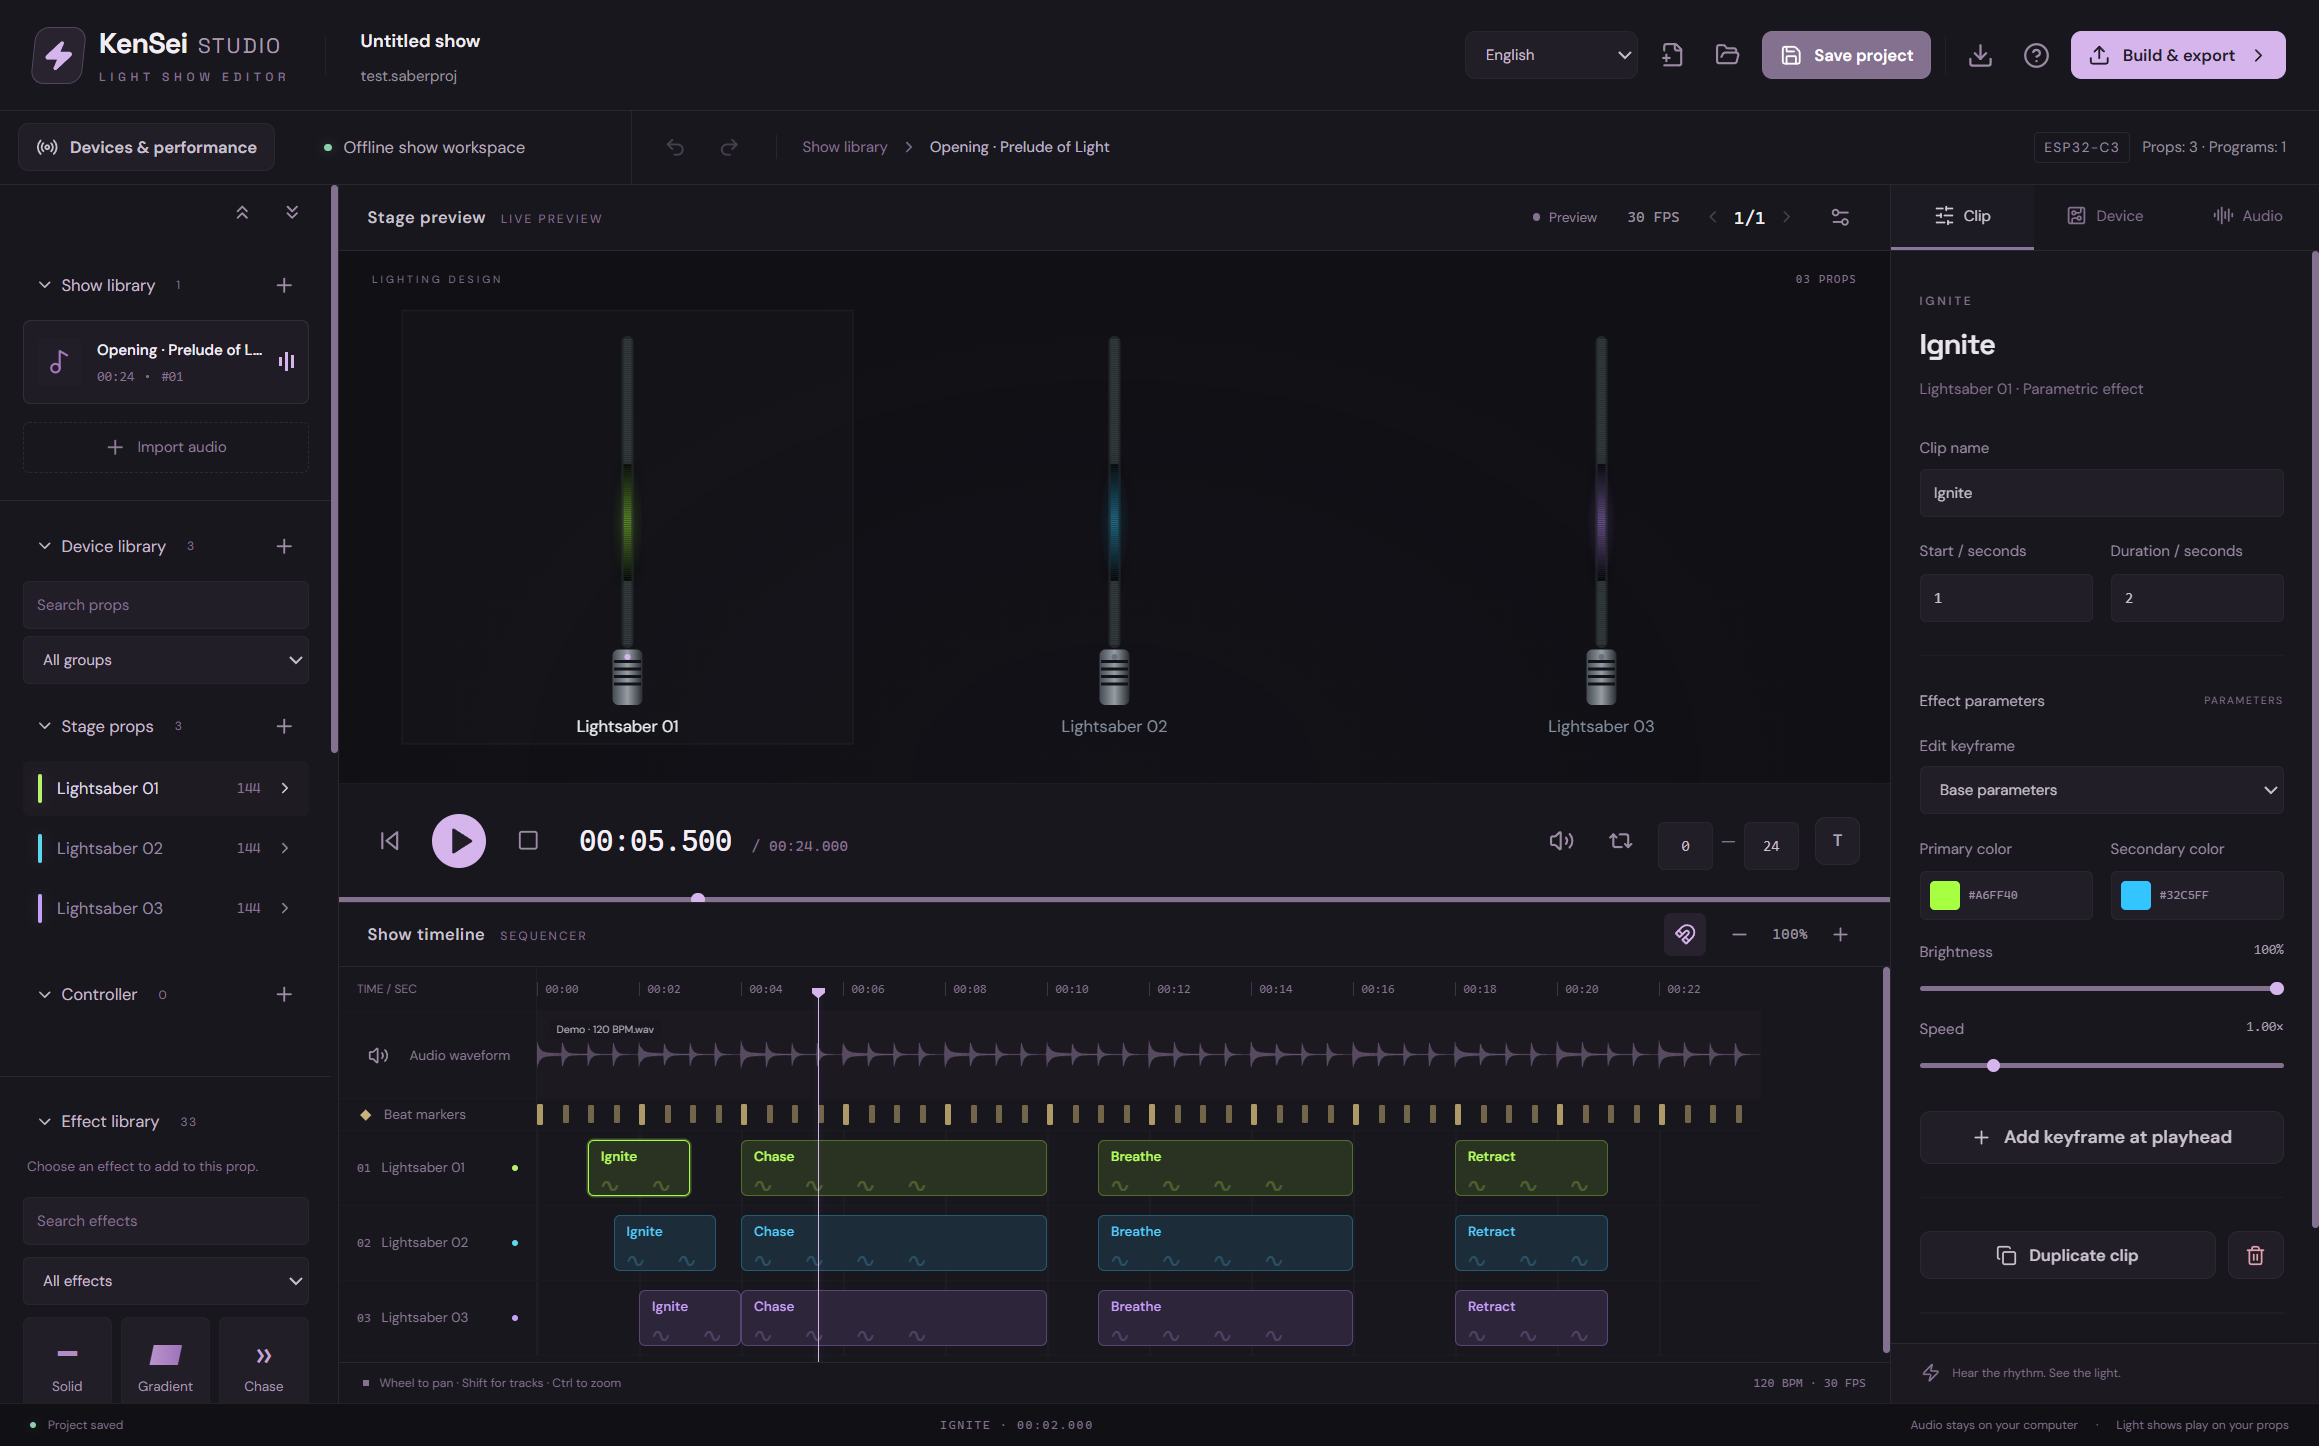
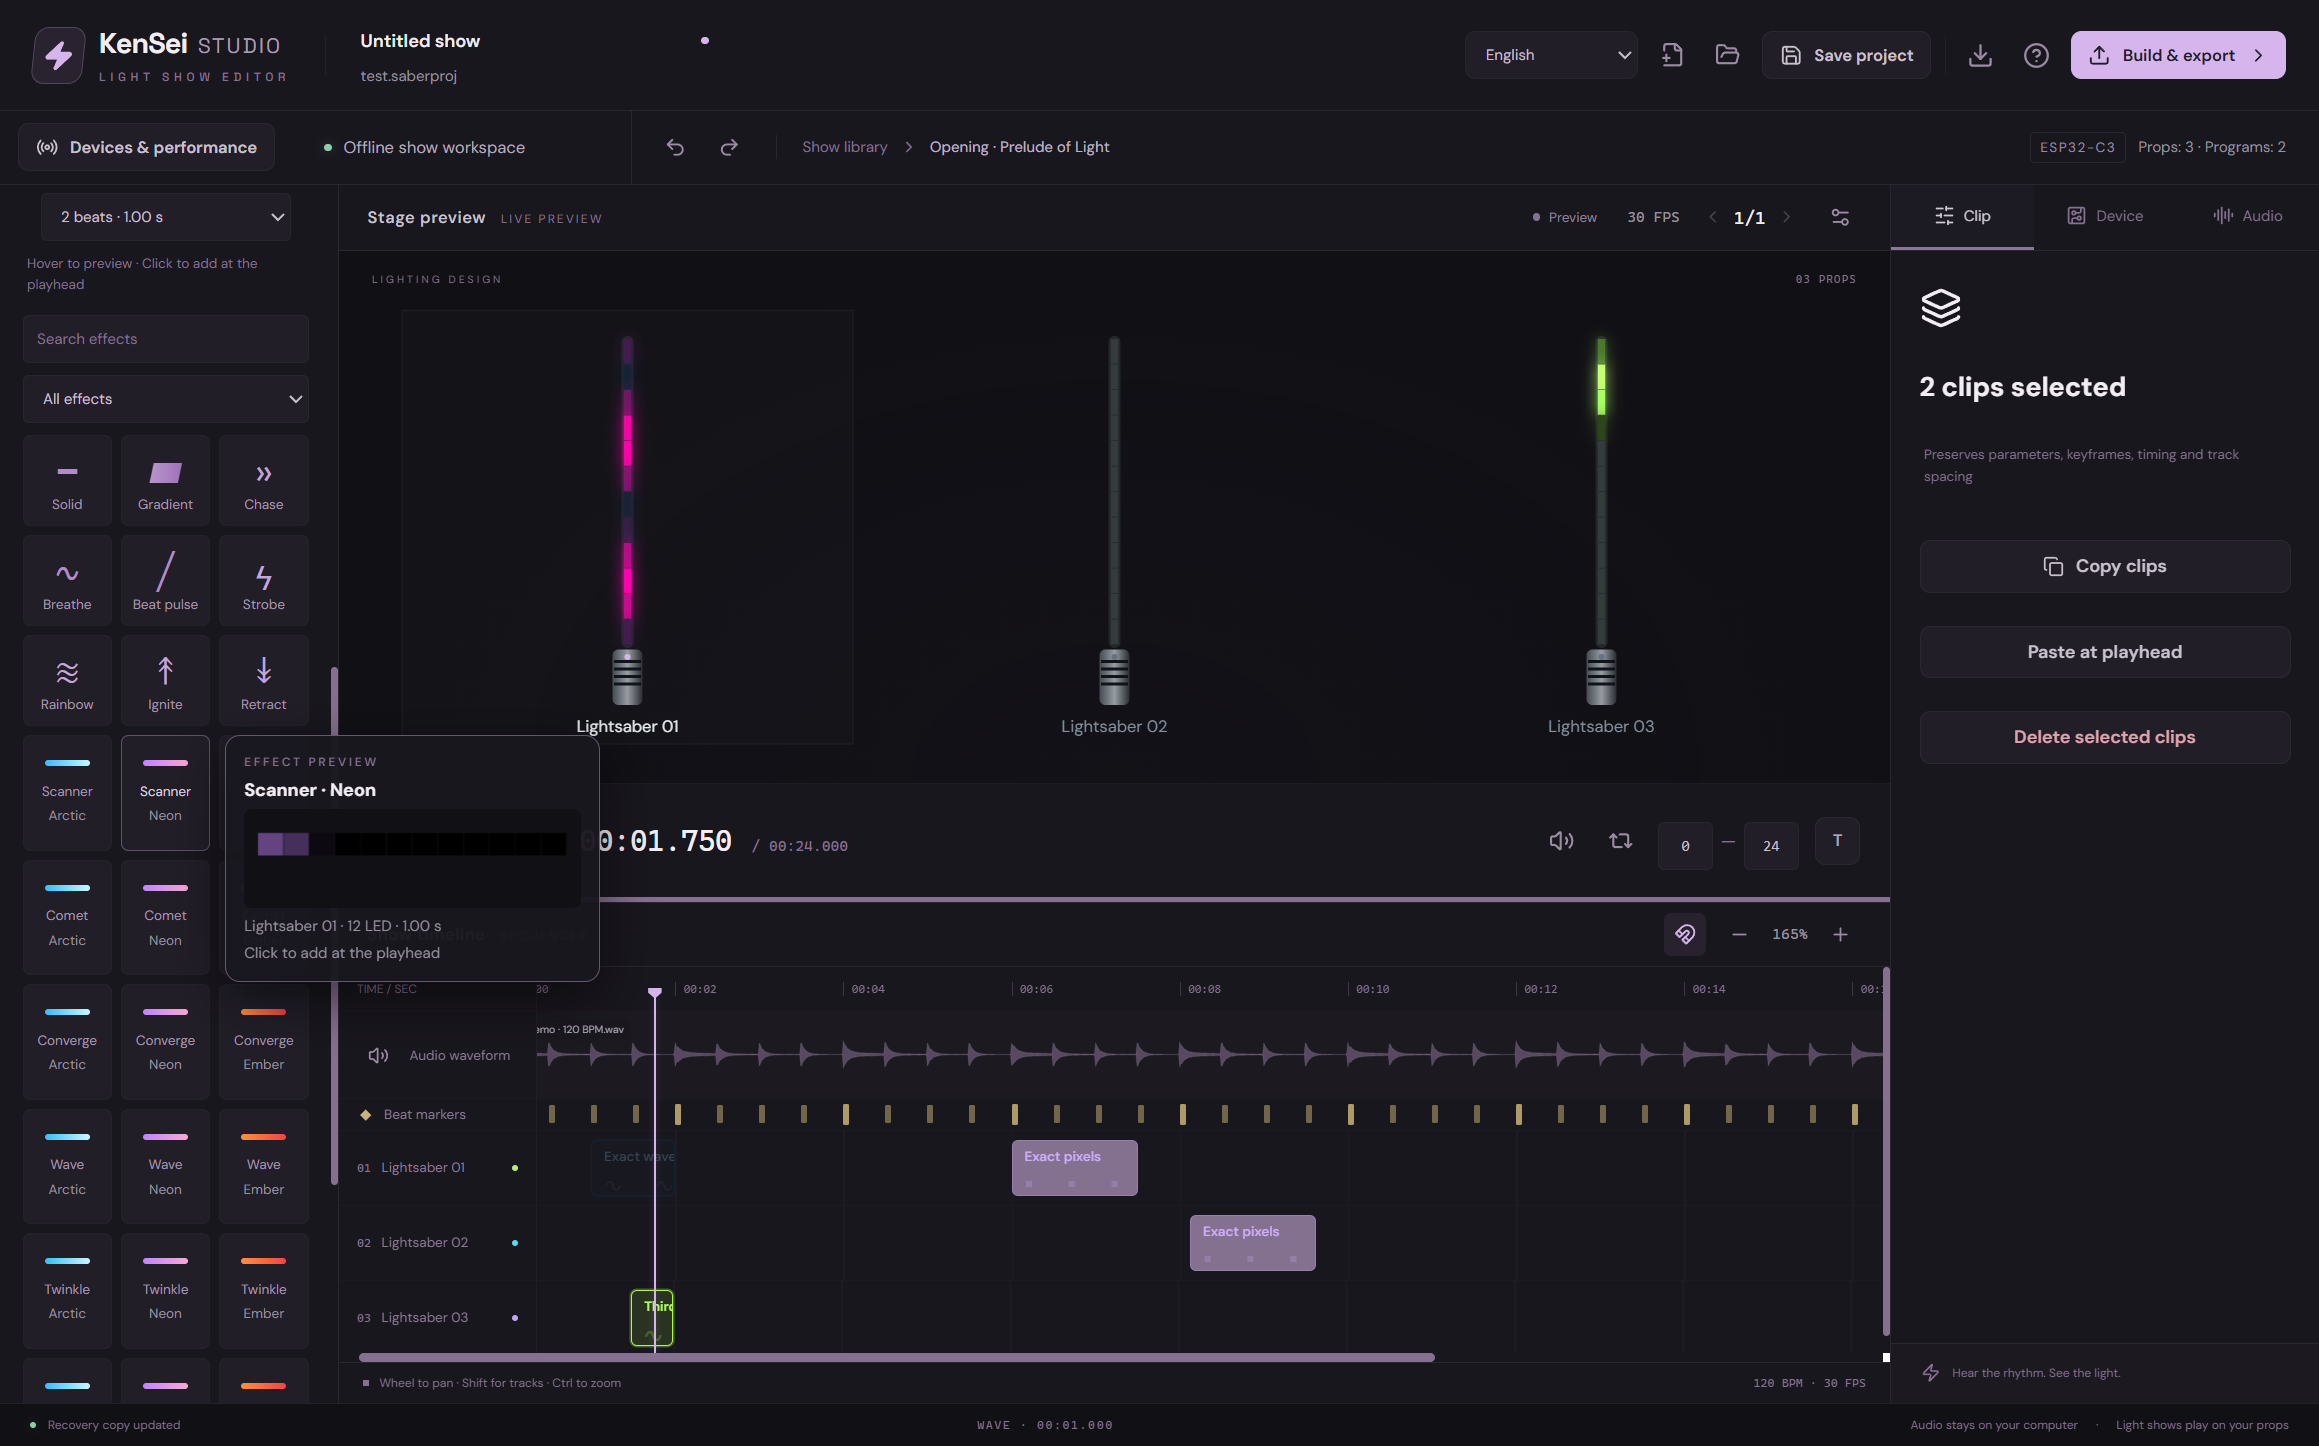
Release KenSei Studio 0.6.0 editor improvements

diff --git a/src/views/studio_view.py b/src/views/studio_view.py
@@ -75,7 +75,7 @@ def view():
 <div class="detail-heading"><div><div class="eyebrow">WINDOWS / DESKTOP APP</div><h1>KenSei Studio</h1><p>Turn sound into light.</p></div><a class="button primary" href="{url}" download>Download for Windows x64 ↧</a></div>
 <p class="studio-meta">Version <strong>{version}</strong> · <time>{info['date']}</time> · {size} MB · Windows 10 / 11</p>
 <div class="studio-preview"><img src="/assets/kensei-studio/preview.png" alt="KenSei Studio show editor and LED preview" width="1560" height="1000"></div>
-<div class="detail-columns"><section><h2>Music, light, and your next show.</h2><p>Arrange lightsaber effects to music, preview every LED, and build offline ESP32-C3 lighting programs with ESPHome.</p><ul><li>Local audio, beat analysis and independent prop timelines.</li><li>Immediate preview with parameter effects and pixel keyframes.</li><li>Right-click management for props and songs.</li><li>Per-song mute and volume, plus an App master volume.</li><li>17 lighting algorithms and 24 Arctic, Neon and Ember presets.</li><li>English, Simplified Chinese and Traditional Chinese.</li><li>Compile, export and flash over USB.</li><li>Controller library, prop groups and eight-prop preview pages.</li><li>Wireless performance preview with preflight checks and blackout acknowledgements.</li><li>64 props / indoor 30 m and timing targets await physical validation.</li></ul></section><aside class="panel"><h2>Install and keep creating</h2><p>Install this version once to enable future updates inside the app.</p><p>Your .saberproj files, recovery data and build environment are preserved.</p><h3>SHA-256</h3><code class="studio-checksum">{digest}</code></aside></div>
+<div class="detail-columns"><section><h2>Music, light, and your next show.</h2><p>Arrange lightsaber effects to music, preview every LED, and build offline ESP32-C3 lighting programs with ESPHome.</p><ul><li>Local audio, beat analysis and independent prop timelines.</li><li>Immediate preview with parameter effects and pixel keyframes.</li><li>Multi-select, copy and paste complete effects across tracks and songs.</li><li>Short two-beat inserts at the exact playhead, with independent hover previews.</li><li>Right-click management for props and songs.</li><li>Per-song mute and volume, plus an App master volume.</li><li>17 lighting algorithms and 24 Arctic, Neon and Ember presets.</li><li>English, Simplified Chinese and Traditional Chinese.</li><li>Compile, export and flash over USB.</li><li>Controller library, prop groups and eight-prop preview pages.</li><li>Wireless performance preview with preflight checks and blackout acknowledgements.</li><li>64 props / indoor 30 m and timing targets await physical validation.</li></ul></section><aside class="panel"><h2>Install and keep creating</h2><p>Install this version once to enable future updates inside the app.</p><p>Your .saberproj files, recovery data and build environment are preserved.</p><h3>SHA-256</h3><code class="studio-checksum">{digest}</code></aside></div>
 <section class="studio-history"><h2>Release notes</h2>{''.join(history)}</section>
 </article>"""
 
